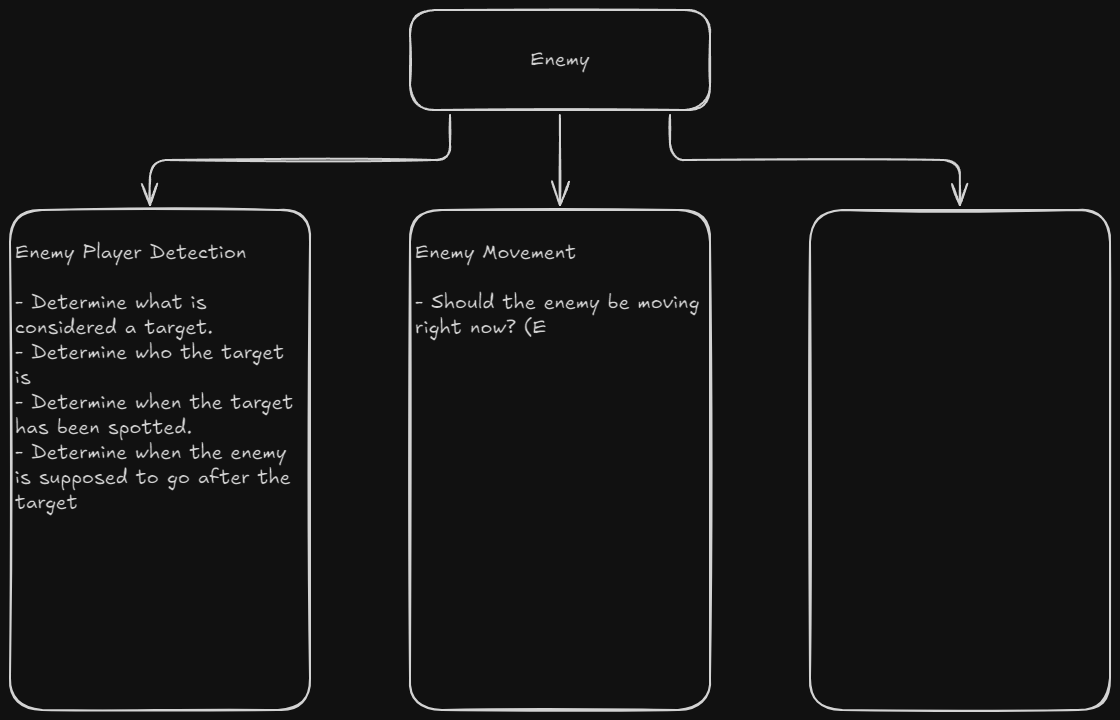
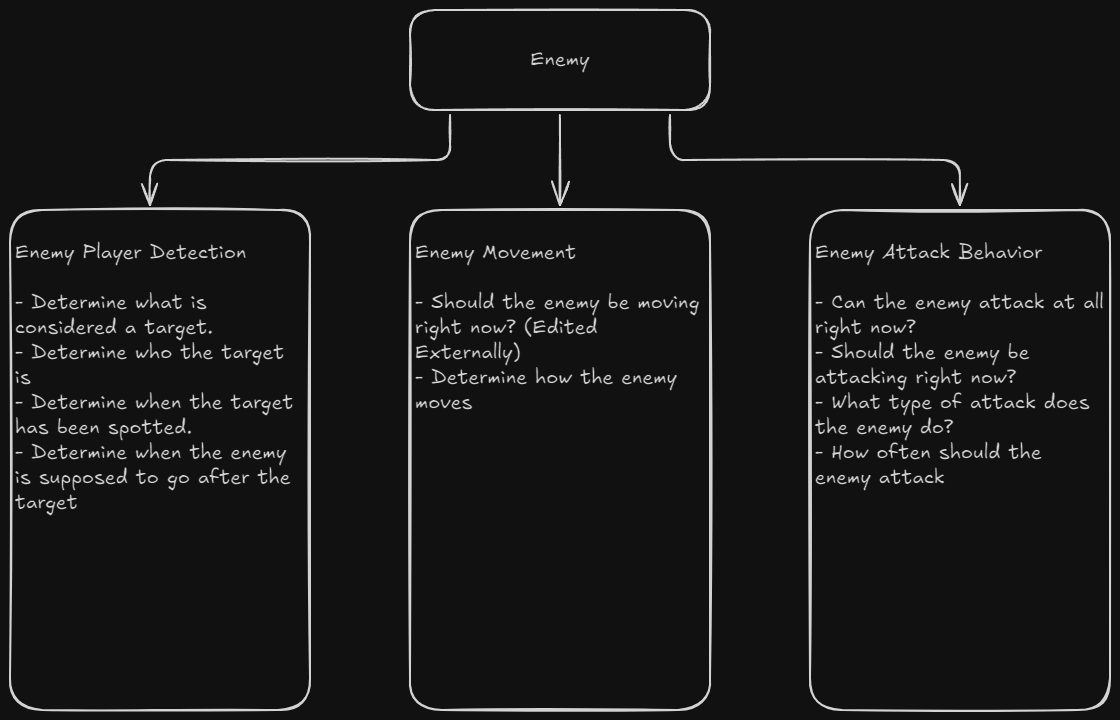
vault backup: 2024-11-28 22:53:54

diff --git a/_META/Excalidraw/Enemy Breakdown.md b/_META/Excalidraw/Enemy Breakdown.md
@@ -23,7 +23,16 @@ Enemy Player Detection
 
 Enemy Movement
 
-- Should the enemy be moving right now? (E ^ZFtkuhSb
+- Should the enemy be moving right now? (Edited Externally)
+- Determine how the enemy moves ^ZFtkuhSb
+
+
+Enemy Attack Behavior
+
+- Can the enemy attack at all right now?
+- Should the enemy be attacking right now?
+- What type of attack does the enemy do?
+- How often should the enemy attack ^O5wVvsd9
 
 %%
 ## Drawing
@@ -52,42 +61,52 @@ t5Y6htHAm3DvnaO9tUAZ1ds4CqwIfbJ02r3SOttZq3XcenfaudhqmNLsE6u9dfrXVBp3cQXjjH+PRpPR
 
[1 lines of base64/hex data omitted]
 
[2 lines of base64/hex data omitted]
 
[2 lines of base64/hex data omitted]
 
[2 lines of base64/hex data omitted]
 
[2 lines of base64/hex data omitted]
 
[2 lines of base64/hex data omitted]
 
[2 lines of base64/hex data omitted]
 
[2 lines of base64/hex data omitted]
 
[2 lines of base64/hex data omitted]
 
[2 lines of base64/hex data omitted]
 
[2 lines of base64/hex data omitted]
 
[2 lines of base64/hex data omitted]
 
[2 lines of base64/hex data omitted]
 
[2 lines of base64/hex data omitted]
 
[2 lines of base64/hex data omitted]
 
[2 lines of base64/hex data omitted]
 
[2 lines of base64/hex data omitted]
 
[2 lines of base64/hex data omitted]
 
[2 lines of base64/hex data omitted]
 
-pC0hwgz2PxMGCAA=
[1 lines of base64/hex data omitted]
+
[1 lines of base64/hex data omitted]
+
[1 lines of base64/hex data omitted]
+
[1 lines of base64/hex data omitted]
+
[1 lines of base64/hex data omitted]
+
[1 lines of base64/hex data omitted]
 ```
 %%
